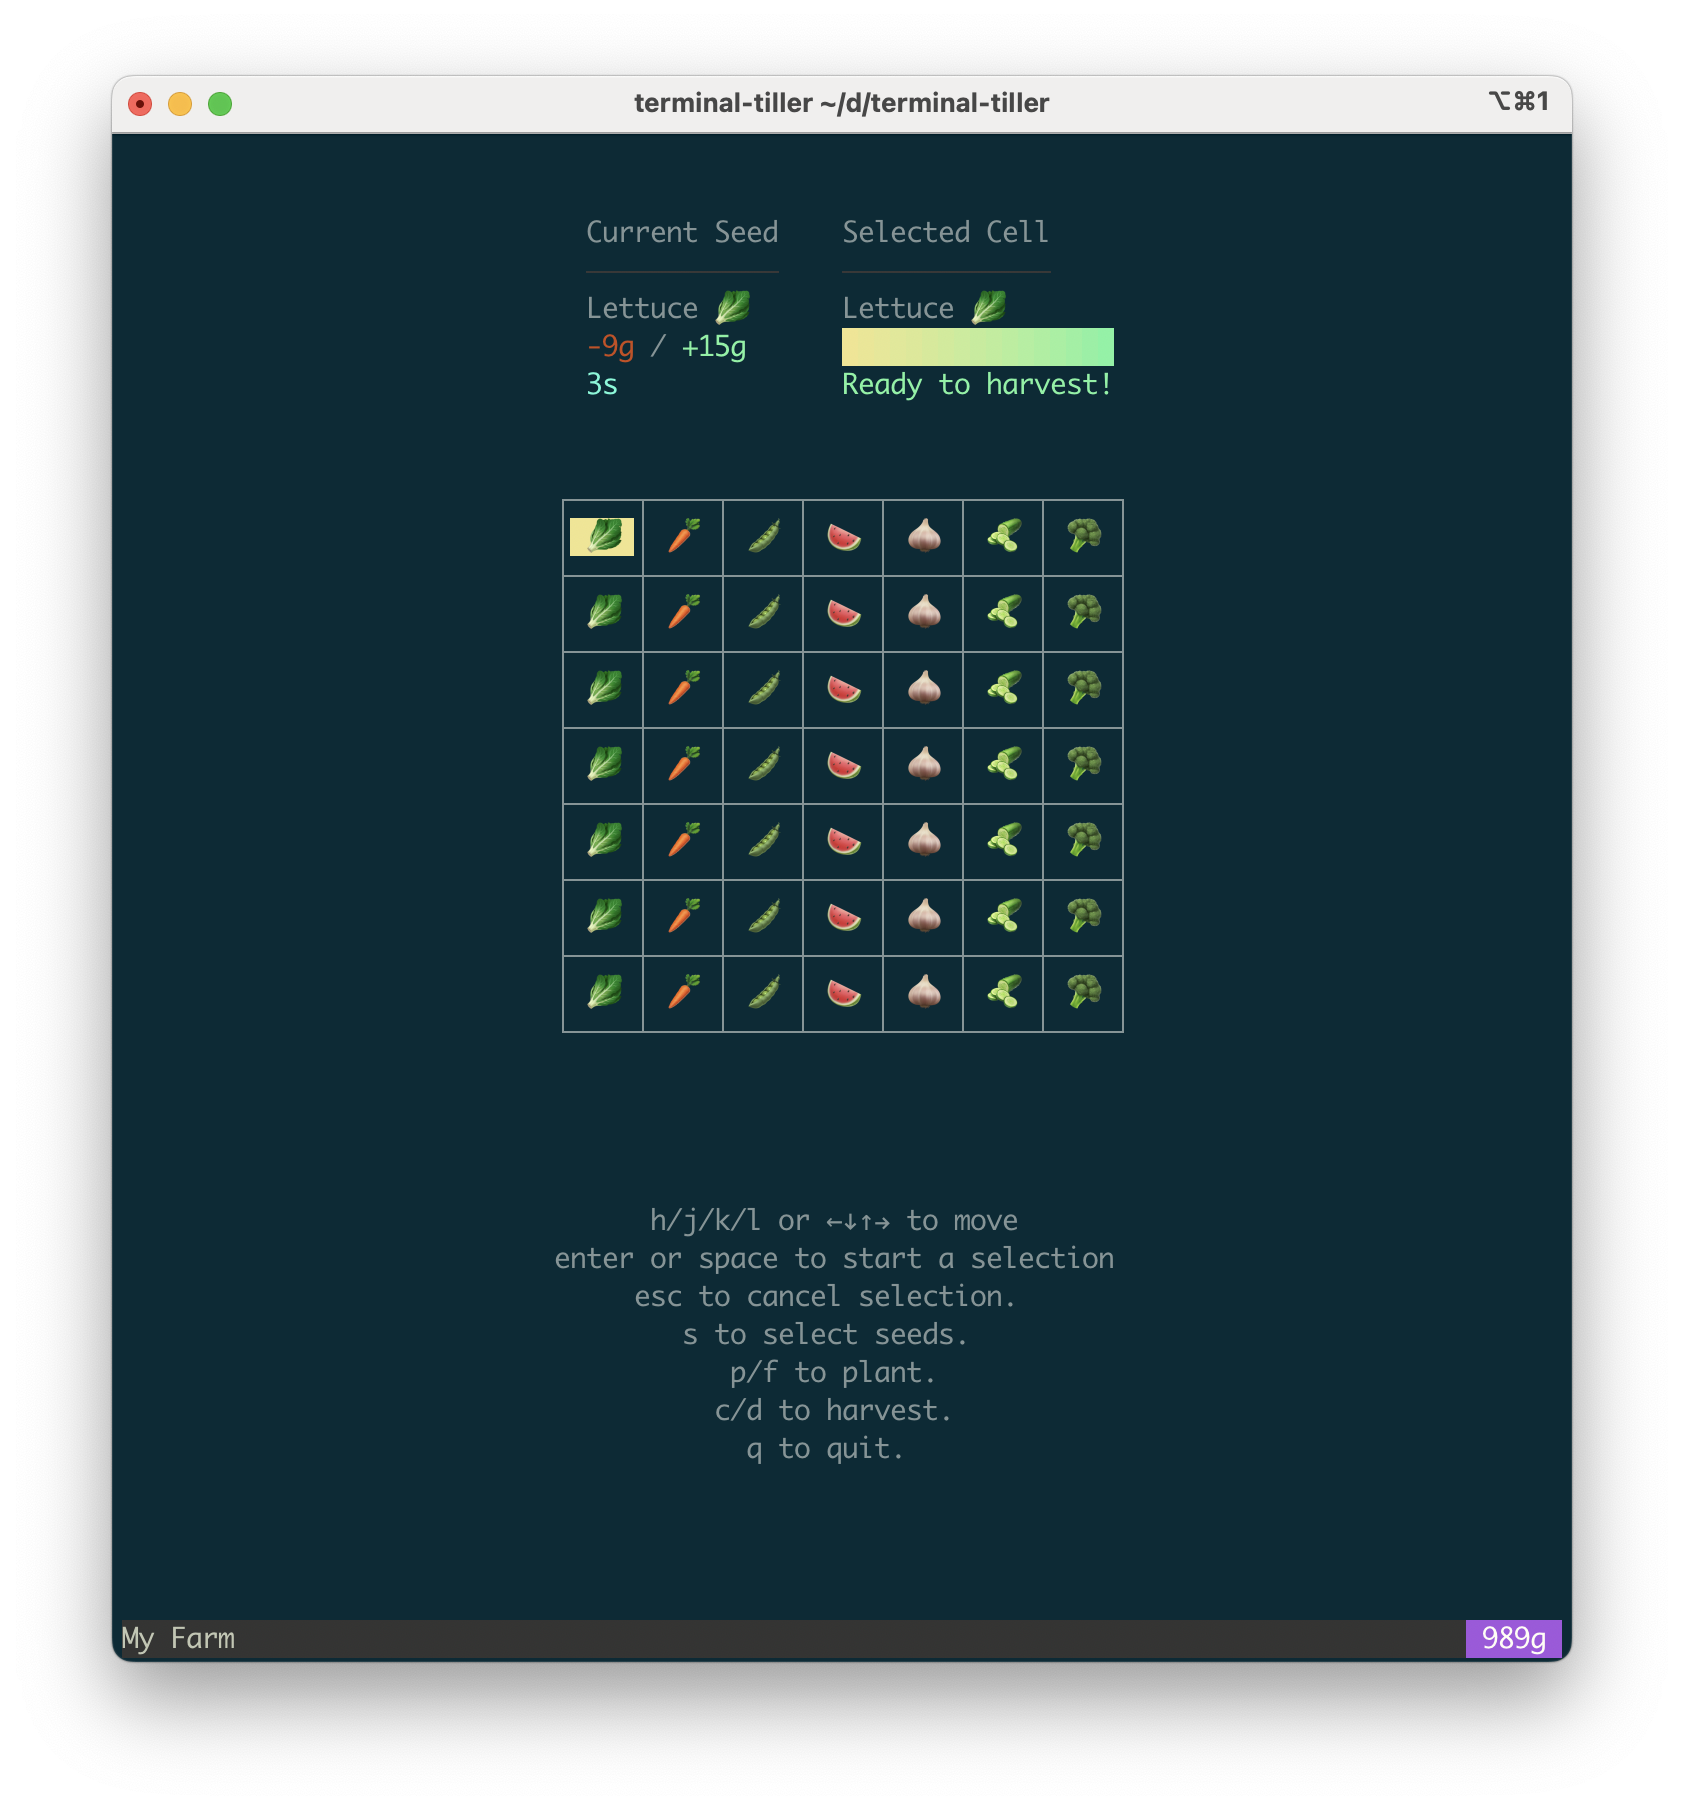
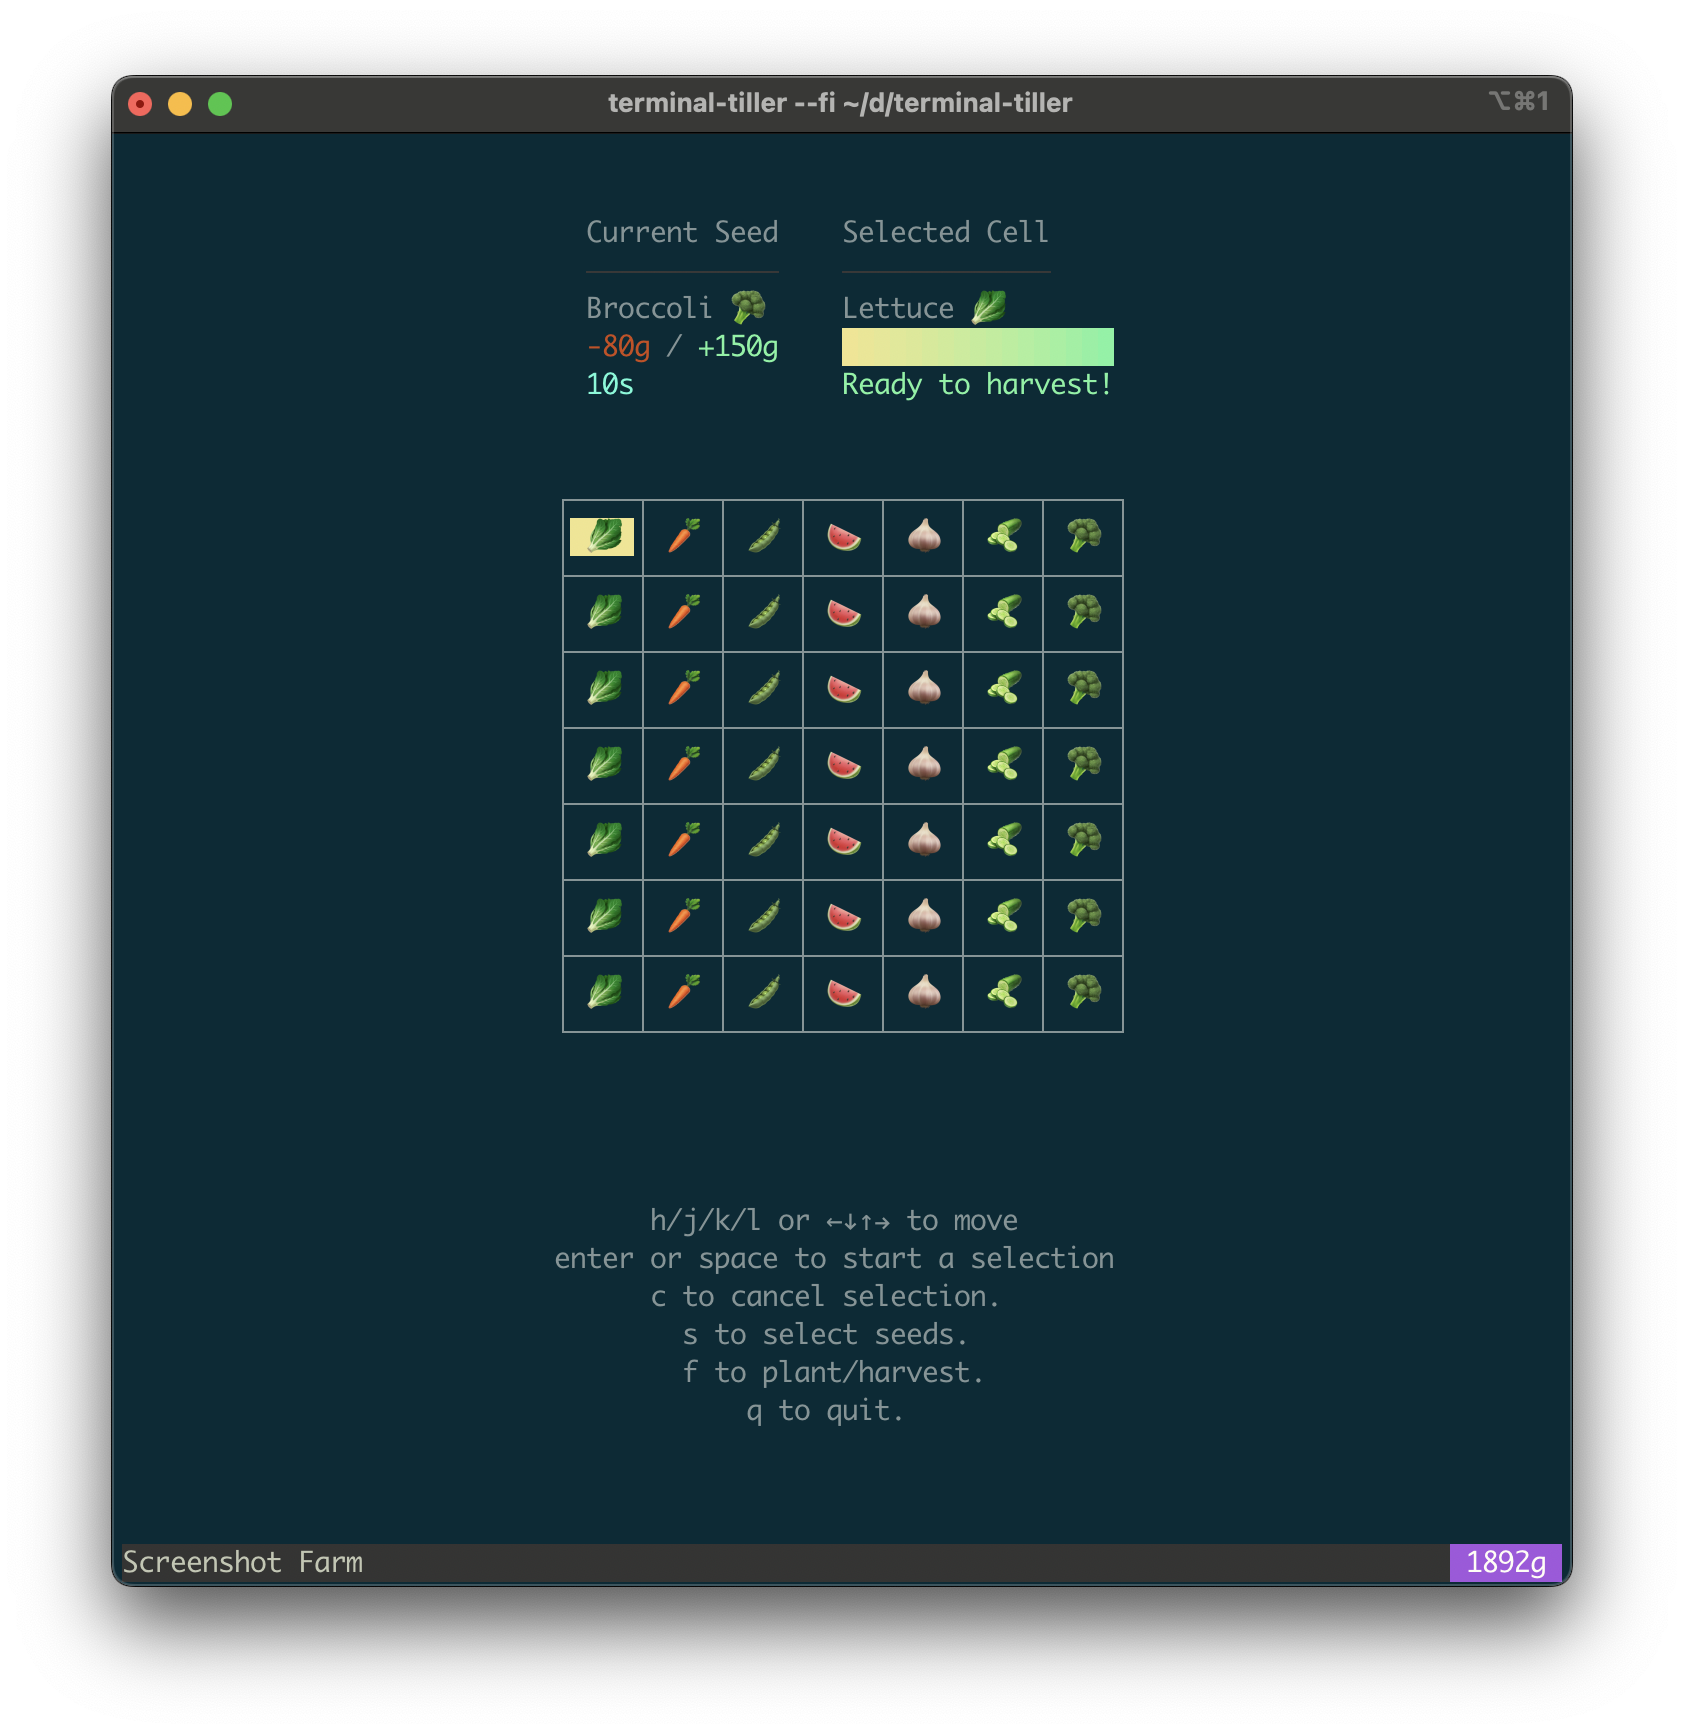
Allow selecting different save file and farm name

diff --git a/game/game.go b/game/game.go
@@ -1,6 +1,9 @@
 package game
 
 import (
+	"fmt"
+	"os"
+	"path/filepath"
 	"time"
 
 	"github.com/calvinmclean/terminal-tiller/farm"
@@ -15,7 +18,7 @@ const (
 	DEFAULT_WIDTH    = 7
 	DEFAULT_HEIGHT   = 7
 	DEFAULT_SCALE    = time.Minute
-	DEFAULT_FILENAME = "farm.data"
+	DEFAULT_FILENAME = "my_farm.data"
 
 	helpStr = `h/j/k/l or ←↓↑→ to move
 enter or space to start a selection
@@ -39,23 +42,46 @@ type game struct {
 
 	showSeedSelect bool
 	seedSelect     list.Model
+
+	filename string
 }
 
-func New() tea.Model {
-	saveFiles, err := findSaveFiles()
-	if err != nil {
-		panic("error finding save files " + err.Error())
+func New(filename, farmName string) (tea.Model, error) {
+	if filename == "" {
+		saveFiles, err := findSaveFiles()
+		if err != nil {
+			panic("error finding save files " + err.Error())
+		}
+
+		if len(saveFiles) > 0 {
+			filename = saveFiles[0]
+		}
 	}
 
-	// TODO: select from list of save files if len > 1 and ask for name
+	dir, err := terminalTillerDir()
+	if err != nil {
+		return nil, fmt.Errorf("error determining save file directory: %w", err)
+	}
+
 	var f *farm.Farm
-	if len(saveFiles) == 0 {
+	switch {
+	case filename == "" && farmName != "":
+		return nil, fmt.Errorf("cannot create new farm without filename")
+	case filename == "" && farmName == "": // create new farm with default name
+		filename = filepath.Join(dir, DEFAULT_FILENAME)
 		f = farm.New("My Farm", DEFAULT_WIDTH, DEFAULT_HEIGHT, DEFAULT_SCALE)
-	} else {
-		f, err = farm.Load(saveFiles[0])
+	case filename != "" && farmName == "": // load existing
+		data, err := os.ReadFile(filename)
 		if err != nil {
-			panic("error loading from save file " + err.Error())
+			return nil, fmt.Errorf("error opening file: %w", err)
 		}
+
+		f, err = farm.Load(data)
+		if err != nil {
+			return nil, fmt.Errorf("error loading from save file: %w", err)
+		}
+	case filename != "" && farmName != "": // new with name
+		f = farm.New(farmName, DEFAULT_WIDTH, DEFAULT_HEIGHT, DEFAULT_SCALE)
 	}
 
 	return &game{
@@ -64,7 +90,8 @@ func New() tea.Model {
 		selectedCoord:    coord{-1, -1},
 		seedSelect:       newSeedSelectView(f.TimeScale()),
 		selectedCropType: farm.Lettuce,
-	}
+		filename:         filename,
+	}, nil
 }
 
 func (g *game) Init() tea.Cmd {

diff --git a/game/filesystem.go b/game/filesystem.go
@@ -4,7 +4,6 @@ import (
 	"fmt"
 	"os"
 	"path/filepath"
-	"strings"
 
 	tea "github.com/charmbracelet/bubbletea"
 )
@@ -46,16 +45,6 @@ func terminalTillerDir() (string, error) {
 	return dir, nil
 }
 
-func (g *game) filePath() (string, error) {
-	dir, err := terminalTillerDir()
-	if err != nil {
-		return "", err
-	}
-
-	fname := strings.ToLower(strings.ReplaceAll(g.farm.Name(), " ", "_"))
-	return filepath.Join(dir, fname+".data"), nil
-}
-
 func (g *game) saveAndQuit() tea.Msg {
 	data, err := g.farm.Marshal()
 	if err != nil {
@@ -63,12 +52,7 @@ func (g *game) saveAndQuit() tea.Msg {
 		panic(fmt.Sprintf("MARSHAL Error: %v", err))
 	}
 
-	path, err := g.filePath()
-	if err != nil {
-		panic(fmt.Sprintf("GET DIR Error: %v", err))
-	}
-
-	err = os.WriteFile(path, data, 0644)
+	err = os.WriteFile(g.filename, data, 0644)
 	if err != nil {
 		panic(fmt.Sprintf("WRITE Error: %v", err))
 	}

diff --git a/main.go b/main.go
@@ -1,16 +1,26 @@
 package main
 
 import (
+	"flag"
+
 	"github.com/calvinmclean/terminal-tiller/game"
 
 	tea "github.com/charmbracelet/bubbletea"
 )
 
 func main() {
-	g := game.New()
+	filename := flag.String("file", "", "save file to load from")
+	farmName := flag.String("name", "", "use this flag to create new farm with the provided name. filename is required when creating a new farm")
+	flag.Parse()
+
+	g, err := game.New(*filename, *farmName)
+	if err != nil {
+		panic(err)
+	}
+
 	p := tea.NewProgram(g, tea.WithAltScreen())
 
-	_, err := p.Run()
+	_, err = p.Run()
 	if err != nil {
 		panic(err)
 	}

diff --git a/farm/farm.go b/farm/farm.go
@@ -4,11 +4,10 @@ import (
 	"encoding/json"
 	"errors"
 	"fmt"
-	"os"
 	"time"
 )
 
-const startingMoney = 50
+const startingMoney = 5000
 
 type Farm struct {
 	name      string
@@ -33,12 +32,7 @@ func New(name string, w, h int, scale time.Duration) *Farm {
 	}
 }
 
-func Load(filename string) (*Farm, error) {
-	data, err := os.ReadFile(filename)
-	if err != nil {
-		return nil, fmt.Errorf("error opening file: %w", err)
-	}
-
+func Load(data []byte) (*Farm, error) {
 	decrypted, err := decrypt(data)
 	if err != nil {
 		return nil, fmt.Errorf("error decrypting: %w", err)
